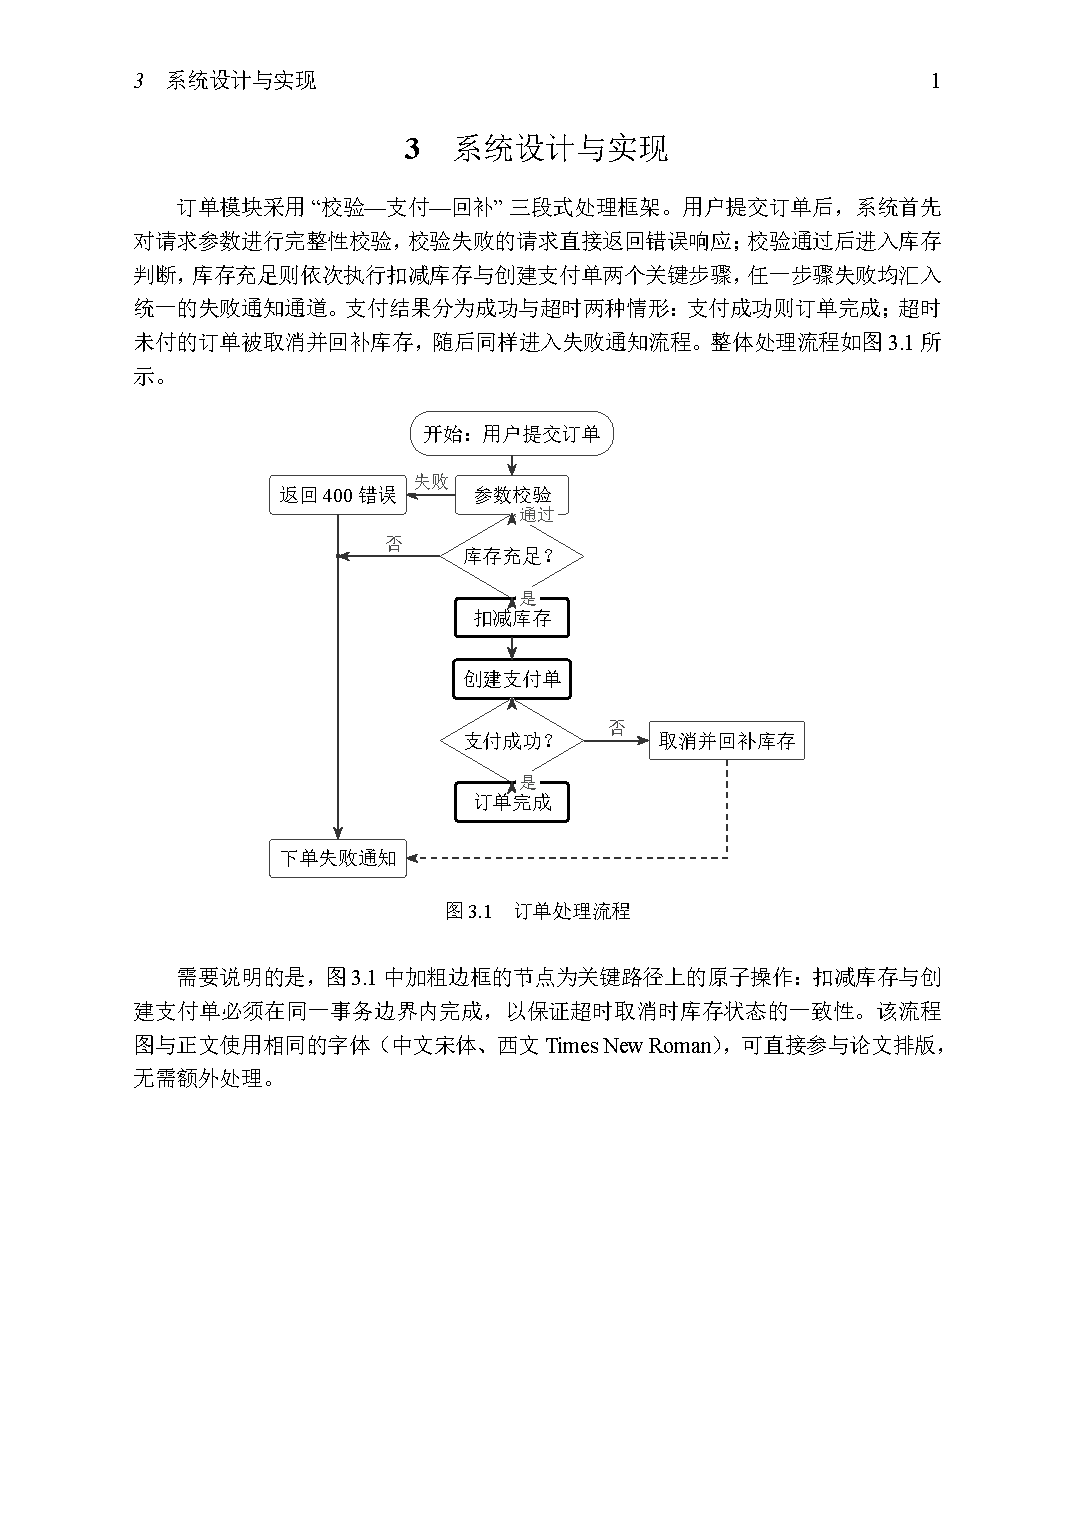
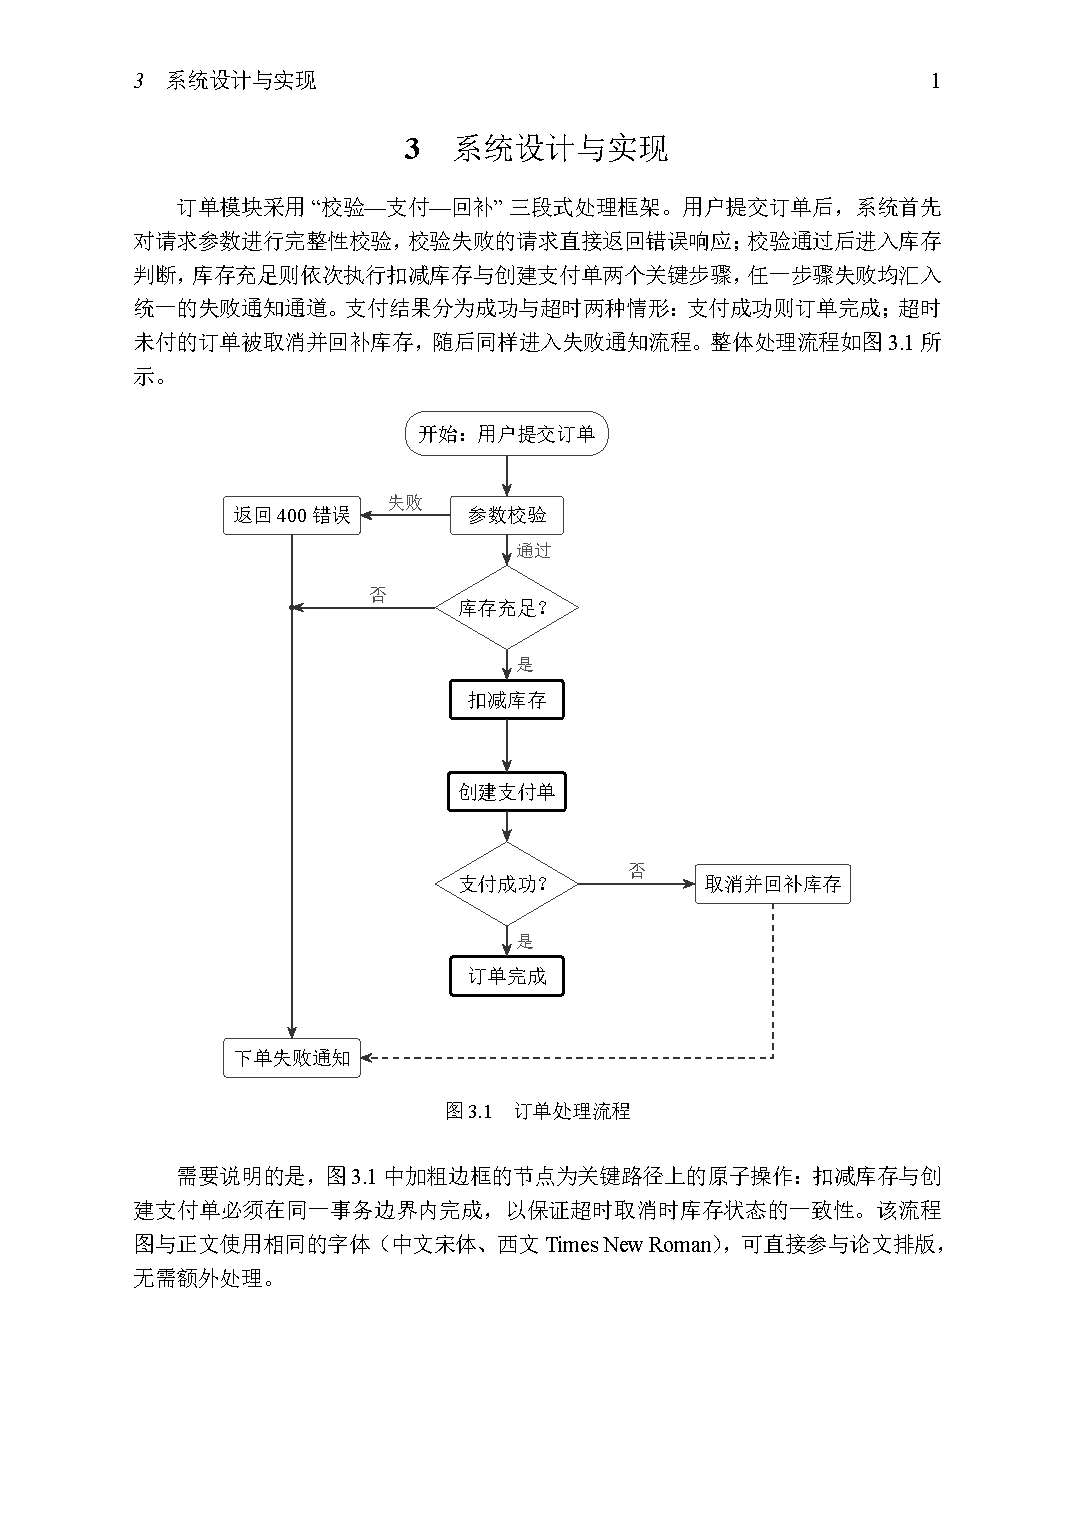
fix: 流程图布局重排——车道制、直线优先、T 形汇流、放宽间距消除重叠；新增论文内嵌演示

diff --git a/skills/pretty-charts/examples/diagram/flowchart/paper_flow.tex b/skills/pretty-charts/examples/diagram/flowchart/paper_flow.tex
@@ -7,27 +7,27 @@
 \setCJKmainfont{SimSun}
 \begin{document}
 \begin{tikzpicture}
-  % 主轴居中；左右失败通道与主轴平行；两个终点同行并排
+  % 主轴居中；左右失败通道与主轴平行；两个终点上下排布（失败汇在底部）
   \node[pc start]                     (s)  at (0,0)      {开始：用户提交订单};
-  \node[pc process]                   (v)  at (0,-1.2)   {参数校验};
-  \node[pc decision]                  (q)  at (0,-2.6)   {库存充足？};
-  \node[pc key]                       (p)  at (0,-4.0)   {扣减库存};
-  \node[pc key]                       (m)  at (0,-5.4)   {创建支付单};
-  \node[pc decision]                  (r)  at (0,-6.8)   {支付成功？};
-  \node[pc key]                       (ok) at (0,-8.2)   {订单完成};
-  \node[pc process]                   (e)  at (-3.6,-1.2){返回 400 错误};
-  \node[pc process]                   (n)  at (-3.6,-9.3){下单失败通知};
-  \node[pc process]                   (c)  at (4.4,-6.8) {取消并回补库存};
+  \node[pc process]                   (v)  at (0,-1.8)   {参数校验};
+  \node[pc decision]                  (q)  at (0,-3.8)   {库存充足？};
+  \node[pc key]                       (p)  at (0,-5.8)   {扣减库存};
+  \node[pc key]                       (m)  at (0,-7.8)   {创建支付单};
+  \node[pc decision]                  (r)  at (0,-9.8)   {支付成功？};
+  \node[pc key]                       (ok) at (0,-11.8)  {订单完成};
+  \node[pc process]                   (e)  at (-4.4,-1.8){返回 400 错误};
+  \node[pc process]                   (n)  at (-4.4,-13.5){下单失败通知};
+  \node[pc process]                   (c)  at (5.4,-9.8) {取消并回补库存};
 
   \draw[pc flow] (s) -- (v);
-  \draw[pc flow] (v) -- node[pc label, right=2pt]{通过} (q);
+  \draw[pc flow] (v) -- node[pc label, right=3pt]{通过} (q);
   \draw[pc flow] (v.west) -- node[pc label, above=1pt]{失败} (e.east);
-  \draw[pc flow] (q.west) -- node[pc label, above=1pt, pos=0.45]{否} (q.west -| e.center);
-  \fill[\pcArrow] (e.center |- q.center) circle (1.1pt);   % T 形汇流点
-  \draw[pc flow] (q.south) -- node[pc label, right=2pt]{是} (p);
+  \draw[pc flow] (q.west) -- node[pc label, above=1pt, pos=0.4]{否} (q.west -| e.center);
+  \fill[\pcArrow] (e.center |- q.center) circle (1.2pt);   % T 形汇流点
+  \draw[pc flow] (q.south) -- node[pc label, right=3pt]{是} (p);
   \draw[pc flow] (p) -- (m);
   \draw[pc flow] (m) -- (r);
-  \draw[pc flow] (r.south) -- node[pc label, right=2pt]{是} (ok);
+  \draw[pc flow] (r.south) -- node[pc label, right=3pt]{是} (ok);
   \draw[pc flow] (r.east) -- node[pc label, above=1pt]{否} (c.west);
   \draw[pc flow] (e) -- (n);
   \draw[pc flow back] (c.south) |- (n.east);

diff --git a/skills/pretty-charts/examples/diagram/flowchart/ppt_flow.tex b/skills/pretty-charts/examples/diagram/flowchart/ppt_flow.tex
@@ -9,27 +9,27 @@
 \pcPPTMode
 \begin{document}
 \begin{tikzpicture}
-  % 主轴居中；左右失败通道与主轴平行；两个终点同行并排
+  % 主轴居中；左右失败通道与主轴平行；失败汇在底部
   \node[pc start]                     (s)  at (0,0)      {开始：用户提交订单};
-  \node[pc process]                   (v)  at (0,-1.2)   {参数校验};
-  \node[pc decision]                  (q)  at (0,-2.6)   {库存充足？};
-  \node[pc key]                       (p)  at (0,-4.0)   {扣减库存};
-  \node[pc key]                       (m)  at (0,-5.4)   {创建支付单};
-  \node[pc decision]                  (r)  at (0,-6.8)   {支付成功？};
-  \node[pc key]                       (ok) at (0,-8.2)   {订单完成};
-  \node[pc process]                   (e)  at (-3.6,-1.2){返回 400 错误};
-  \node[pc process]                   (n)  at (-3.6,-9.3){下单失败通知};
-  \node[pc process]                   (c)  at (4.4,-6.8) {取消并回补库存};
+  \node[pc process]                   (v)  at (0,-1.8)   {参数校验};
+  \node[pc decision]                  (q)  at (0,-3.8)   {库存充足？};
+  \node[pc key]                       (p)  at (0,-5.8)   {扣减库存};
+  \node[pc key]                       (m)  at (0,-7.8)   {创建支付单};
+  \node[pc decision]                  (r)  at (0,-9.8)   {支付成功？};
+  \node[pc key]                       (ok) at (0,-11.8)  {订单完成};
+  \node[pc process]                   (e)  at (-4.4,-1.8){返回 400 错误};
+  \node[pc process]                   (n)  at (-4.4,-13.5){下单失败通知};
+  \node[pc process]                   (c)  at (5.4,-9.8) {取消并回补库存};
 
   \draw[pc flow] (s) -- (v);
-  \draw[pc flow] (v) -- node[pc label, right=2pt]{通过} (q);
+  \draw[pc flow] (v) -- node[pc label, right=3pt]{通过} (q);
   \draw[pc flow] (v.west) -- node[pc label, above=1pt]{失败} (e.east);
-  \draw[pc flow] (q.west) -- node[pc label, above=1pt, pos=0.45]{否} (q.west -| e.center);
-  \fill[\pcArrow] (e.center |- q.center) circle (1.1pt);   % T 形汇流点
-  \draw[pc flow] (q.south) -- node[pc label, right=2pt]{是} (p);
+  \draw[pc flow] (q.west) -- node[pc label, above=1pt, pos=0.4]{否} (q.west -| e.center);
+  \fill[\pcArrow] (e.center |- q.center) circle (1.2pt);   % T 形汇流点
+  \draw[pc flow] (q.south) -- node[pc label, right=3pt]{是} (p);
   \draw[pc flow] (p) -- (m);
   \draw[pc flow] (m) -- (r);
-  \draw[pc flow] (r.south) -- node[pc label, right=2pt]{是} (ok);
+  \draw[pc flow] (r.south) -- node[pc label, right=3pt]{是} (ok);
   \draw[pc flow] (r.east) -- node[pc label, above=1pt]{否} (c.west);
   \draw[pc flow] (e) -- (n);
   \draw[pc flow back] (c.south) |- (n.east);

diff --git a/skills/pretty-charts/examples/diagram/flowchart/paper_embedded.tex b/skills/pretty-charts/examples/diagram/flowchart/paper_embedded.tex
@@ -25,25 +25,25 @@
   \centering
   \begin{tikzpicture}
     \node[pc start]                     (s)  at (0,0)      {开始：用户提交订单};
-    \node[pc process]                   (v)  at (0,-1.2)   {参数校验};
-    \node[pc decision]                  (q)  at (0,-2.4)   {库存充足？};
-    \node[pc key]                       (p)  at (0,-3.6)   {扣减库存};
-    \node[pc key]                       (m)  at (0,-4.8)   {创建支付单};
-    \node[pc decision]                  (r)  at (0,-6.0)   {支付成功？};
-    \node[pc key]                       (ok) at (0,-7.2)   {订单完成};
-    \node[pc process]                   (e)  at (-3.4,-1.2){返回 400 错误};
-    \node[pc process]                   (n)  at (-3.4,-8.3){下单失败通知};
-    \node[pc process]                   (c)  at (4.2,-6.0) {取消并回补库存};
+    \node[pc process]                   (v)  at (0,-1.6)   {参数校验};
+    \node[pc decision]                  (q)  at (0,-3.4)   {库存充足？};
+    \node[pc key]                       (p)  at (0,-5.2)   {扣减库存};
+    \node[pc key]                       (m)  at (0,-7.0)   {创建支付单};
+    \node[pc decision]                  (r)  at (0,-8.8)   {支付成功？};
+    \node[pc key]                       (ok) at (0,-10.6)  {订单完成};
+    \node[pc process]                   (e)  at (-4.2,-1.6){返回 400 错误};
+    \node[pc process]                   (n)  at (-4.2,-12.2){下单失败通知};
+    \node[pc process]                   (c)  at (5.2,-8.8) {取消并回补库存};
 
     \draw[pc flow] (s) -- (v);
-    \draw[pc flow] (v) -- node[pc label, right=2pt]{通过} (q);
+    \draw[pc flow] (v) -- node[pc label, right=3pt]{通过} (q);
     \draw[pc flow] (v.west) -- node[pc label, above=1pt]{失败} (e.east);
-    \draw[pc flow] (q.west) -- node[pc label, above=1pt, pos=0.45]{否} (q.west -| e.center);
-    \fill[\pcArrow] (e.center |- q.center) circle (1.1pt);   % T 形汇流点
-    \draw[pc flow] (q.south) -- node[pc label, right=2pt]{是} (p);
+    \draw[pc flow] (q.west) -- node[pc label, above=1pt, pos=0.4]{否} (q.west -| e.center);
+    \fill[\pcArrow] (e.center |- q.center) circle (1.2pt);   % T 形汇流点
+    \draw[pc flow] (q.south) -- node[pc label, right=3pt]{是} (p);
     \draw[pc flow] (p) -- (m);
     \draw[pc flow] (m) -- (r);
-    \draw[pc flow] (r.south) -- node[pc label, right=2pt]{是} (ok);
+    \draw[pc flow] (r.south) -- node[pc label, right=3pt]{是} (ok);
     \draw[pc flow] (r.east) -- node[pc label, above=1pt]{否} (c.west);
     \draw[pc flow] (e) -- (n);
     \draw[pc flow back] (c.south) |- (n.east);
